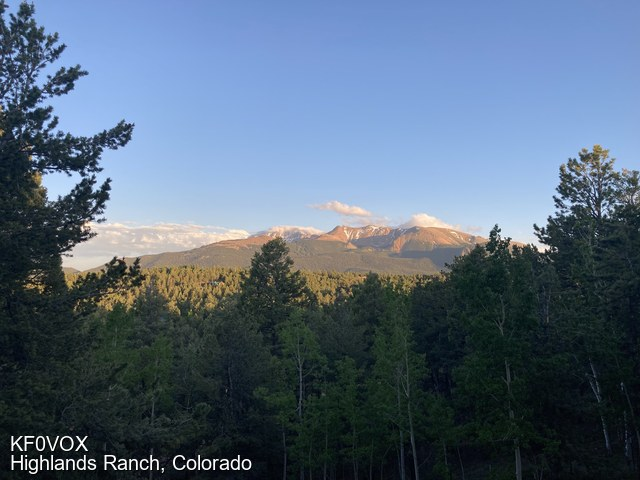
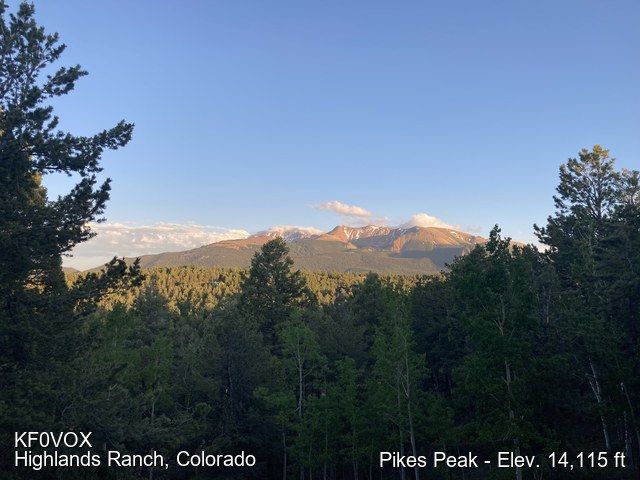
Moved caption to bottom right, updated screenshot

Changed region(s): [[0.0, 0.875, 0.4062, 1.0], [0.5938, 0.9375, 1.0, 1.0]]

diff --git a/dstar_image_prep.py b/dstar_image_prep.py
@@ -39,7 +39,7 @@ def add_watermark(
     # Font (Windows-safe for now)
     try:
         font_main = ImageFont.truetype("C:/Windows/Fonts/arial.ttf", 20)
-        font_caption = ImageFont.truetype("C:/Windows/Fonts/arial.ttf", 18)
+        font_caption = font_main
     except OSError:
         font_main = ImageFont.load_default()
         font_caption = ImageFont.load_default()
@@ -52,8 +52,7 @@ def add_watermark(
             lines.append((line, font_main))
 
     # Optional caption line
-    if caption_text:
-        lines.append((caption_text, font_caption))
+    
 
     # Measure total block
     line_heights = []
@@ -78,6 +77,18 @@ def add_watermark(
         draw.text((x + 1, y + 1), text, font=font, fill=(0, 0, 0))
         draw.text((x, y), text, font=font, fill=(255, 255, 255))
         y += h + 4
+      
+     # Draw caption in bottom-right
+    if caption_text:
+        bbox = draw.textbbox((0, 0), caption_text, font=font_main)
+        text_w = bbox[2] - bbox[0]
+        text_h = bbox[3] - bbox[1]
+
+        x = img.width - text_w - margin
+        y = img.height - text_h - margin
+
+        draw.text((x + 1, y + 1), caption_text, font=font_main, fill=(0, 0, 0))
+        draw.text((x, y), caption_text, font=font_main, fill=(255, 255, 255))
 
     return img
 
